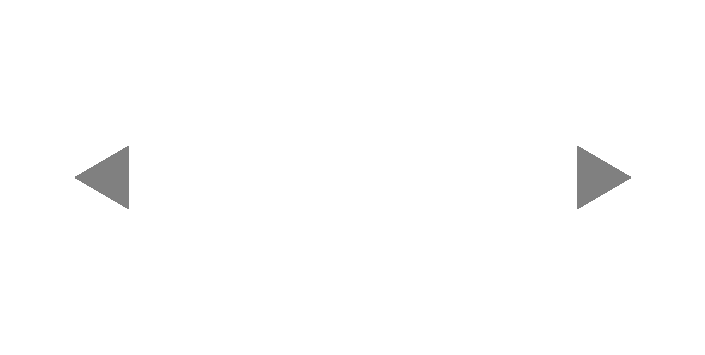
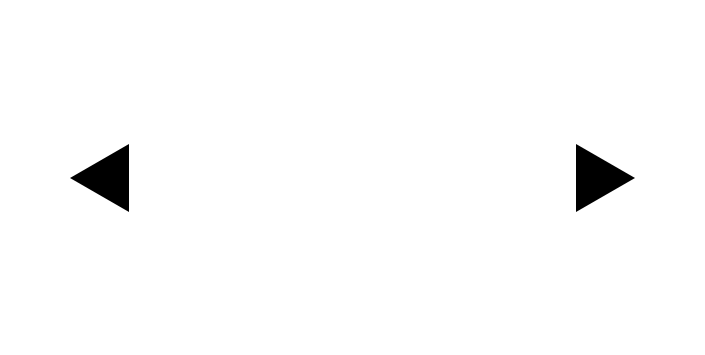
[Andy] Updated button prompt and minimap images, irrelevant UI disappears during timing event

Changed region(s): [[0.8113, 0.4028, 0.905, 0.5887], [0.0936, 0.4028, 0.1872, 0.5887]]

diff --git a/ProjectMeteor/Assets/Scripts/GUIController.cs b/ProjectMeteor/Assets/Scripts/GUIController.cs
@@ -286,6 +286,21 @@ public class GUIController : MonoBehaviour
     {
         StartCoroutine(BlackBarsCoroutine(heightTarget, duration));
     }
+    public void ToggleNonTimingWindowGUI(bool state)
+    {
+        subtitles.gameObject.SetActive(state);
+        minimap.SetActive(state);
+        meteorDirectionMarker.gameObject.SetActive(state);
+        healthDisplay.gameObject.SetActive(state);
+        scoreText.gameObject.SetActive(state);
+        
+        if (PlayerController.currentLevel == 0) //i.e. only in survival mode
+        {
+            meteorCounterText.gameObject.SetActive(state);
+            timerText.gameObject.SetActive(state);
+        }
+    }
+
     private IEnumerator BlackBarsCoroutine(float heightTarget, float duration)
     {
         float tHeight = topBlackBar.GetComponent<RectTransform>().sizeDelta.y;
@@ -296,6 +311,8 @@ public class GUIController : MonoBehaviour
             bottomBlackBar.GetComponent<RectTransform>().sizeDelta = new Vector2(0.0f, Mathf.Lerp(bHeight, heightTarget, t));
             yield return null;
         }
+        topBlackBar.GetComponent<RectTransform>().sizeDelta = new Vector2(0.0f, heightTarget);
+        bottomBlackBar.GetComponent<RectTransform>().sizeDelta = new Vector2(0.0f, heightTarget);
     }
     public void ShowResults(int resultType, float duration, float delay)
     {
@@ -317,7 +334,8 @@ public class GUIController : MonoBehaviour
     }
     public void UpdatePlayerMarker(Vector3 playerPosition)
     {
-        playerMarker.GetComponent<RectTransform>().anchoredPosition = new Vector2(playerPosition.x / 3.0f, playerPosition.z / 3.0f);
+        playerMarker.GetComponent<RectTransform>().anchoredPosition = new Vector2(playerPosition.x / 4.0f, playerPosition.z / 4.0f);
+        playerMarker.GetComponent<RectTransform>().localScale = new Vector3((Mathf.Sin(Time.time * 8) / 5) + 0.9f, 1.0f, 1.0f);
     }
     public void AddMinimapMeteor(GameObject meteor, int type)
     {
@@ -328,7 +346,7 @@ public class GUIController : MonoBehaviour
         }
         newMarker.transform.SetParent(minimap.transform, false);
         //Debug.Log(meteor.transform.position.x + " and " + meteor.transform.position.z);
-        newMarker.GetComponent<RectTransform>().anchoredPosition = new Vector2(meteor.transform.position.x / 3.0f, meteor.transform.position.z / 3.0f);
+        newMarker.GetComponent<RectTransform>().anchoredPosition = new Vector2(meteor.transform.position.x / 4.0f, meteor.transform.position.z / 4.0f);
 
 
         minimapMeteors.Add(newMarker);

diff --git a/ProjectMeteor/Assets/Scripts/PlayerController.cs b/ProjectMeteor/Assets/Scripts/PlayerController.cs
@@ -663,7 +663,8 @@ public class PlayerController : MonoBehaviour
         }
 
         playerState = 2;
-        gui.ScaleBlackBars(70.0f, 0.5f);
+        gui.ToggleNonTimingWindowGUI(false);
+        gui.ScaleBlackBars(75.0f, 0.5f);
         
         //Get the current position of the object to be moved
         Vector3 startPos = fromPosition.position;
@@ -684,6 +685,7 @@ public class PlayerController : MonoBehaviour
         playerState = 1;
         CameraController.SwitchToMainCamera();
         gui.ScaleBlackBars(0.0f, 0.5f);
+        gui.ToggleNonTimingWindowGUI(true);
 
         if (timingGrade > 0)
         {
